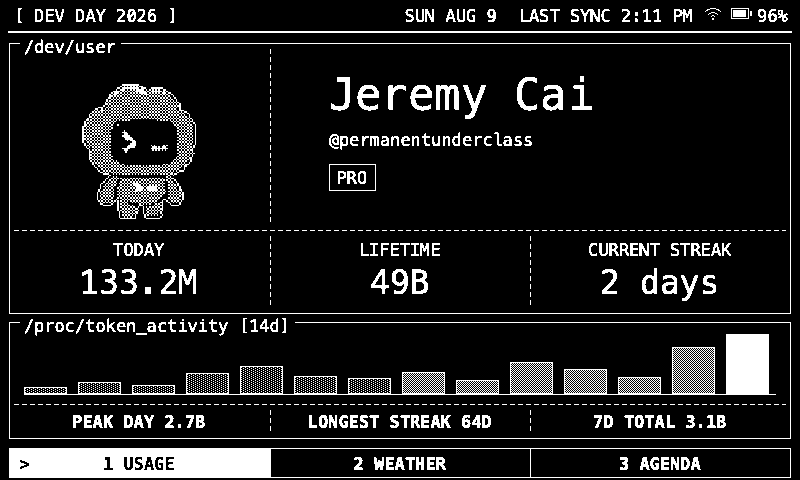
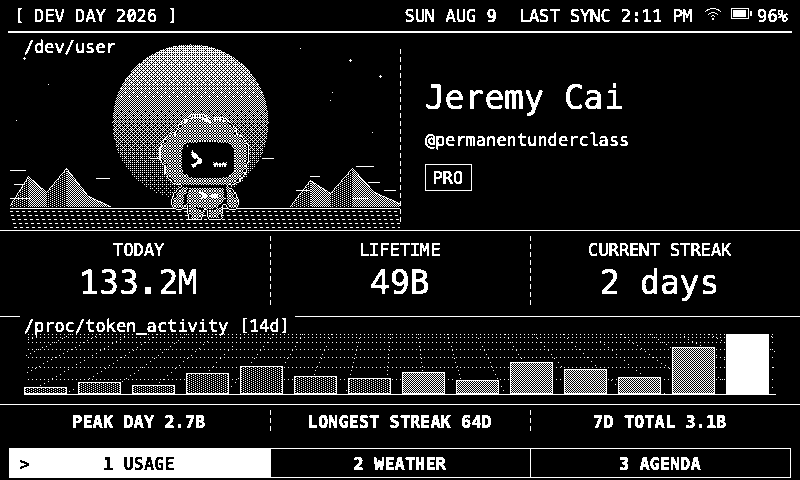
Refresh README screenshots, retire audit artifacts, log 1.0.0

diff --git a/README.md b/README.md
@@ -18,9 +18,10 @@ Every render below is produced by the shipping firmware's actual drawing code
 (`tools/preview/build.sh`), not a mockup. Design language throughout:
 brutalist 1-bit — solid fills, dotted rules, FreeSans/FreeMono, uppercase
 micro-labels, and ordered one-bit dithering instead of grayscale. Usage,
-Weather, and Agenda share the same black command rail, framed `/path` sections,
-exact one-third grid, and page-aware physical-key tabs. Large readings use the
-regular mono face; bold mono is reserved for small labels where it stays crisp.
+Weather, and Agenda share the same black command rail, `/path` sections set
+off by full-width rules, exact one-third grid, and page-aware physical-key
+tabs. Large readings use the regular mono face; bold mono is reserved for
+small labels where it stays crisp.
 
 ### First boot
 
@@ -43,18 +44,25 @@ permanently.
 The attendee's Codex identity beneath a `[ DEV DAY 2026 ]` command rail: their
 pet (whichever one they picked in Codex), name, handle, plan badge, today /
 lifetime / streak
-metrics, and a 14-day token activity chart. The three equal `/proc` footer cells
-show peak day, longest streak, and seven-day total using only values
-available from the local Codex usage service. Previous days use ordered
-dither; today remains solid. The real sprite atlas supplies two idle frames;
-while USB power is present the firmware makes four five-second partial-window
-swaps and then rests on the primary frame, avoiding full-panel refresh churn.
-Everything fills automatically when the terminal is plugged into a laptop
-with Codex signed in.
+metrics, and a 14-day token activity chart. The `/dev/user` band splits into
+equal halves — the pet standing in a 1-bit synthwave scene (Bayer-dithered
+moon, mountain ridges, speed dashes and stars) on the left, identity on the
+right — and the chart's bars sit on a dotted perspective floor. The pet's
+silhouette and each bar knock the backdrop out so foregrounds read solid.
+The three equal `/proc` footer cells show peak day, longest streak, and
+seven-day total using only values available from the local Codex usage
+service. Previous days use ordered dither; today remains solid. The real
+sprite atlas supplies two idle frames; while USB power is present the
+firmware makes four five-second partial-window swaps and then rests on the
+primary frame, avoiding full-panel refresh churn. Everything fills
+automatically when the terminal is plugged into a laptop with Codex signed
+in.
 
 The 96x104 pet cell is enlarged without changing its aspect ratio, so imported
 frames stay crisp and proportionate instead of being stretched to fill the
-profile column.
+profile column. `tools/preview/build.sh` also renders the page against a few
+extra built-in pets (`dash_pet_dewey`, `dash_pet_fireball`, …) so backdrop and
+knockout changes can be checked against varied silhouettes.
 
 ### 2 · Weather
 

diff --git a/CHANGELOG.md b/CHANGELOG.md
@@ -1,8 +1,17 @@
 # Changelog
 
-## [Unreleased]
+## [1.0.0] - 2026-09-03
 
 ### Added
+
+- **Synthwave backdrops on the Usage page.** `/dev/user` now splits into
+  equal halves: the pet stands bottom-anchored in a 1-bit scene — Bayer-8
+  dithered moon, shadowed mountain ridges, speed dashes, stars and a ground
+  band — while `/proc/token_activity` bars sit on a dotted perspective floor.
+  The pet silhouette and each bar knock the backdrop out so foregrounds read
+  solid, and the outer section frames gave way to full-width rules.
+  `tools/preview/gen_pet_samples.py` renders the page against extra built-in
+  pets for QA.
 
 - **Dev Day 2026 terminal Usage page.** The 7.5-inch Usage screen now renders
   beneath a `[ DEV DAY 2026 ]` rail as a framed `/dev/user` and
